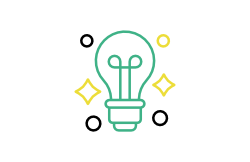
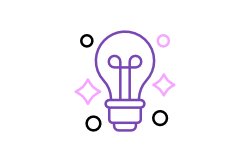
att encontro com educadores 2025

Changed region(s): [[0.28, 0.1852, 0.7, 0.8333], [0.392, 0.2469, 0.42, 0.3086], [0.42, 0.216, 0.448, 0.2469]]

diff --git a/eventos/encontro-com-educadores/index.html b/eventos/encontro-com-educadores/index.html
@@ -30,7 +30,7 @@
             <div class="div1"><img src="images/encontrocomeducafam.svg"></div>
             <div class="div2">
                 <div class="data">
-                    <img src="images/seta.svg"> <span>28 de Setembro <span class="horario">9h</span></span>
+                    <img src="images/seta.svg"> <span>03 de Outubro <span class="horario">| 19h</span></span>
                 </div>
                 <div class="retangulinho"></div>
             </div>
@@ -38,19 +38,18 @@
                 <div class="trianguloum"></div>
                 <h1>Idelfranio
                     Moreira</h1>
-                <p>Alinhando as <span class="inovacoes"> Inovações
-                        Pedagógicas</span> às Reais Necessidades dos Alunos</p>
+                <p>Aprender e Ensinar em tempos de <span class="inovacoes">Inteligências Artificiais</span></p>
             </div>
             <div class="div4">
                 <div class="triangle-container"></div>
             </div>
             <div class="div5">
                 <div class="">
-                    <h2>Teatro Paulo Autran</h2>
+                    <h2>Auditório Jamil Salomão</h2>
                     <div style="display: flex;align-items:flex-start;gap: 10px;">
                         <img src="images/local.svg">
-                        <p><span style="font-weight: 900;">R. Belém, 233 </span> <br>
-                            Vila Nossa Sra. de Fátima, Americana - SP</p>
+                        <p><span style="font-weight: 900;">Av. Joaquim B. de Almeida, 192</span> <br>
+                            Jardim São Paulo, Americana - SP</p>
                     </div>
                 </div>
                 <a href="https://calendar.google.com/calendar/event?action=TEMPLATE&amp;tmeid=M3Y0a2N2cDZlNzVyOWxucDdwZWRmN2w4b3EgY19mYzlmMjg4YmY5ZjYxZmY2NTdjNmMyZDE3M2Y3YWE5NTI4OTdhNDY1YzkxZDE0ZDk0MWQ0ZDM3NzM4YzM1MGI4QGc&amp;tmsrc=c_fc9f288bf9f61ff657c6c2d173f7aa952897a465c91d14d941d4d37738c350b8%40group.calendar.google.com" class="agenda">Adicione ao seu calendário</a>
@@ -64,25 +63,24 @@
     </header>
     <main>
         <section style="margin-top: 0;">
-            <h1>Sobre o Encontro com Educadores</h1>
+            <h1>Sobre o evento</h1>
             <p>
-                A Faculdade de Americana convida você para a 21ª edição do nosso tradicional evento anual, um encontro
-                essencial para educadores da rede pública. Este evento, único em São Paulo, é a oportunidade ideal para
-                se conectar com outros profissionais e discutir o futuro da educação.
+                A Faculdade de Americana orgulhosamente apresenta a <b>22ª edição</b> de seu tradicional evento anual, um marco único no estado de São Paulo que reúne educadores da rede pública de ensino para discutir e moldar o futuro da educação. Este evento, já consolidado como uma referência no meio educacional, é uma oportunidade singular para debater os temas mais atuais e relevantes que permeiam o cotidiano das salas de aula.
             </p>
             <p>
-                Ao longo dos anos, nosso palco já recebeu pensadores renomados como <b>Içami Tiba</b>, <b>Mario Sérgio
-                    Cortella</b>, <b>Clóvis de Barros</b>, <b>Luiz Felipe Pondé</b> e
-                <b>Marcelo Tas</b>. Cada um deles trouxe insights valiosos que enriqueceram as discussões e inspiraram
-                mudanças significativas na educação, agora é a vez de <b>Idelfranio Moreira.</b>
+                Ao longo dos anos, a Faculdade de Americana trouxe ao palco grandes pensadores e influenciadores da educação e cultura brasileira, como <b>Mario Sérgio Cortella</b>, <b>Clóvis de Barros</b>, <b>Luiz Felipe Pondé</b> e <b>Marcelo Tas</b>. Estes nomes de peso contribuíram significativamente para enriquecer as discussões e promover reflexões profundas entre os participantes.
+            </p>
+            <p>
+                Enfatizamos que este evento é um verdadeiro catalisador para a troca de experiências contínua da educação pública na nossa região. Convidamos todos a se juntarem para discutir, aprender e colaborar na construção de um futuro educacional mais promissor.
             </p>
         </section>
+
         <section class="convidado">
               <div class="container-convidado"> <img src="images/img.jpg"></div>
          
             <div>
                 <h1>Idelfranio Moreira</h1>
-                <h3>Com a palestra: <b><i>“Alinhando as Inovações Pedagógicas às Reais Necessidades dos Alunos”</i></b>
+                <h3>Com a palestra: <b><i>“Aprender e Ensinar em tempos de Inteligências Artificiais”</i></b>
                 </h3>
                 <p>Um educador cearense apaixonado pela ciência e inovação, com uma vasta experiência em ensino e
                     produção
@@ -111,7 +109,7 @@
                     <img src="images/$2h8mcy5e413.png">
                     <h3>Reflexão</h3>
                     <p>Reflita sobre como tornar o ensino mais relevante e eficaz na palestra de Idelfranio Moreira,
-                        <em>"Alinhando as Inovações Pedagógicas às Necessidades dos Alunos".</em>
+                        <em>“Aprender e Ensinar em tempos de Inteligências Artificiais”.</em>
                     </p>
                 </div>
                 <div class="networking">
@@ -165,7 +163,7 @@
             <div class="slider">
                 <div class="slide active">
                  
-                    <p>"O evento sempre promove discussões que enriquecem as dinâmicas em sala de aula, sendo de grande relevância para todos que atuam nesse ambiente. Para a FAM, alcançar a 21ª edição deste evento reforça nosso compromisso em proporcionar aos professores da nossa região uma oportunidade de atualização frente às novas tecnologias e aos comportamentos das novas gerações."</p>
+                    <p>"O evento sempre promove discussões que enriquecem as dinâmicas em sala de aula, sendo de grande relevância para todos que atuam nesse ambiente. Para a FAM, alcançar a 22ª edição deste evento reforça nosso compromisso em proporcionar aos professores da nossa região uma oportunidade de atualização frente às novas tecnologias e aos comportamentos das novas gerações."</p>
                         <h2>&mdash; Gustavo Azzolini</h2>
                         <a href="https://www.instagram.com/gustavo.azzolini" class="fonte">@gustavo.azzolini</a>
                 </div>
@@ -184,7 +182,7 @@
         </section>
         <section>
             <iframe
-                src="https://www.google.com/maps/embed?pb=!1m18!1m12!1m3!1d3679.7386676437814!2d-47.314783924464216!3d-22.737952779374254!2m3!1f0!2f0!3f0!3m2!1i1024!2i768!4f13.1!3m3!1m2!1s0x94c89a2292e405b5%3A0xd5138e3560c14f81!2sTeatro%20Paulo%20Autran!5e0!3m2!1spt-BR!2sbr!4v1724688515780!5m2!1spt-BR!2sbr"
+                src="https://www.google.com/maps?q=Av.%20Joaquim%20B.%20de%20Almeida%2C%20192%20-%20Jardim%20S%C3%A3o%20Paulo%2C%20Americana%20-%20SP&output=embed"
                 width="100%" height="450" style="border:0;" allowfullscreen="" loading="lazy"
                 referrerpolicy="no-referrer-when-downgrade"></iframe>
         </section>

diff --git a/eventos/encontro-com-educadores/style.css b/eventos/encontro-com-educadores/style.css
@@ -49,7 +49,7 @@
 }
 
 ::-webkit-scrollbar-thumb:hover {
-    background: #006b69;
+    background: #481f7c;
 }
 
 body {
@@ -80,13 +80,13 @@ main li {
 main h1 {
     text-align: center;
     font-family: 'Salmond Bold', sans-serif;
-    color: #006b69;
+    color: #481f7c;
 }
 
 main h3 {
     font-family: "Roboto", sans-serif;
     font-weight: 400;
-   
+
 }
 
 section {
@@ -142,7 +142,7 @@ header {
 
 .div3 {
     grid-area: 2 / 1 / 3 / 2;
-    background-color: #3eb288;
+    background-color: #7947B4;
     display: flex;
     flex-direction: column;
     align-items: center;
@@ -152,9 +152,10 @@ header {
 
 .div3 p {
     font-family: "Roboto", sans-serif;
-    font-size: 20px;
+    font-size: 25px;
     color: white;
-    padding-left: 20px;
+
+      text-align: center;
 }
 
 .div3 h1 {
@@ -162,6 +163,7 @@ header {
     font-family: 'Salmond Bold', sans-serif;
     font-size: 40px;
     color: white;
+    text-align: center;
 }
 
 .div4 {
@@ -199,12 +201,12 @@ header {
     font-family: "Roboto", sans-serif;
     margin-top: 0;
     font-size: 20px;
-    color: #006b69;
+    color: #481f7c;
 }
 
 .div6 {
     grid-area: 3 / 2 / 4 / 3;
-    background-color: #006b69;
+    background-color: #481f7c;
     display: flex;
     align-items: flex-end;
     /* Alinha o conteúdo ao fundo */
@@ -229,7 +231,7 @@ header {
     /* Centraliza horizontalmente a imagem */
     height: 40px;
     width: 100%;
-    background: linear-gradient(90deg, #006b69 49.8%, #c5e0d7 50%);
+    background: linear-gradient(90deg, #481f7c 49.8%, #f5a6ff 50%);
 }
 
 .data {
@@ -238,7 +240,7 @@ header {
     display: flex;
     align-items: center;
     justify-content: center;
-    background: linear-gradient(157deg, #3eb288 49.8%, #45be92 50%);
+    background: linear-gradient(157deg, #7947B4 49.8%, rgb(104, 47, 158) 50%);
     font-family: 'Salmond Regular', sans-serif;
 }
 
@@ -251,7 +253,7 @@ header {
     text-decoration: none;
     padding: 20px;
     font-size: 20px;
-    background-color: #006b69;
+    background-color: #7947B4;
     text-align: center;
     text-transform: uppercase;
     font-family: "Roboto", sans-serif;
@@ -266,11 +268,11 @@ header {
 
 .agenda {
 
-    color: #3eb288;
+    color: #f5a6ff;
     text-decoration: none;
     padding: 10px;
     font-size: 15px;
-    border: 2px solid #3eb288;
+    border: 2px solid #f5a6ff;
     text-align: center;
     text-transform: uppercase;
     font-family: "Roboto", sans-serif;
@@ -284,21 +286,21 @@ header {
 
 
 .trianguloum {
-    background: linear-gradient(136deg, white 49.8%, #3eb288 50%);
+    background: linear-gradient(136deg, white 49.8%, #7947B4 50%);
     height: 50px;
     width: 50px;
 }
 
 .inovacoes {
     font-weight: 900;
-    color: #343232;
+    color: #f5a6ff;
 }
 
 .triangle-container {
     width: 50px;
     height: 50px;
     position: relative;
-    background-color: #3eb288;
+    background-color: #7947B4;
     transform: rotate(270deg);
     /* Rotaciona o container em 45 graus */
 
@@ -327,7 +329,7 @@ header {
 
 .triangle-container div {
     clip-path: polygon(0% 0%, 100% 0%, 50% 100%);
-    background-color: #3eb288;
+    background-color: #7947B4;
 }
 
 .div7 {
@@ -378,7 +380,7 @@ header {
 /* convidado --------------------------------------------------------------------------------------------------------------------------------------------------*/
 
 .convidado {
-    border: 2px solid #3eb288;
+    border: 2px solid #7947B4;
     padding: 20px;
     display: flex;
     gap: 20px;
@@ -390,10 +392,11 @@ header {
     margin-bottom: 20px;
 }
 
-.convidado .container-convidado{
+.convidado .container-convidado {
     width: 700px;
 }
-.convidado img{
+
+.convidado img {
     width: 100%;
     height: 100%;
     object-fit: cover;
@@ -432,17 +435,17 @@ header {
     text-align: left;
 }
 
-.slide p{
+.slide p {
     font-size: 18px;
     font-style: italic;
     text-align: center;
 }
 
-.slider a{
-    color: #3eb288;
+.slider a {
+    color: #7947B4;
 }
 
-.slider .fonte{
+.slider .fonte {
     font-family: "Roboto", sans-serif;
     font-weight: bold;
 
@@ -453,7 +456,7 @@ header {
 }
 
 .slide h2 {
-    color: #006b69;
+    color: #481f7c;
     margin-bottom: 5px;
     font-size: 20px;
     font-family: 'Salmond Bold', sans-serif;
@@ -470,7 +473,7 @@ header {
     height: 10px;
     width: 10px;
     margin: 0 5px;
-    background-color: #006b69;
+    background-color: #481f7c;
     border-radius: 50%;
     display: inline-block;
 }
@@ -591,11 +594,11 @@ header {
 @media (max-width: 930px) {
 
     .convidado {
-       flex-direction: column;
-    align-items: center;
+        flex-direction: column;
+        align-items: center;
     }
 
-    .convidado .container-convidado{
+    .convidado .container-convidado {
         width: 100%;
         height: 300px;
     }
@@ -615,23 +618,14 @@ header {
 
     .div3 {
         grid-area: 3 / 1 / 4 / 2;
-        background-color: #006b69;
-    }
-
-    .div3 h1 {
-        text-align: center;
+        background-color: #481f7c;
     }
 
     .div3 p {
-        text-align: center;
-        padding-left: 0;
+     padding-bottom: 20px;
     }
 
-    .inovacoes {
-        font-weight: 900;
-        color: #3eb288;
-    }
-
+ 
     .div5 {
         grid-area: 4 / 1 / 5 / 2;
     }
@@ -657,7 +651,7 @@ header {
     }
 
     .trianguloum {
-        background: linear-gradient(136deg, #45be92 49.8%, #006b69 50%);
+        background: linear-gradient(136deg, rgb(104, 47, 158) 49.8%, #481f7c 50%);
         height: 50px;
         width: 50px;
     }
